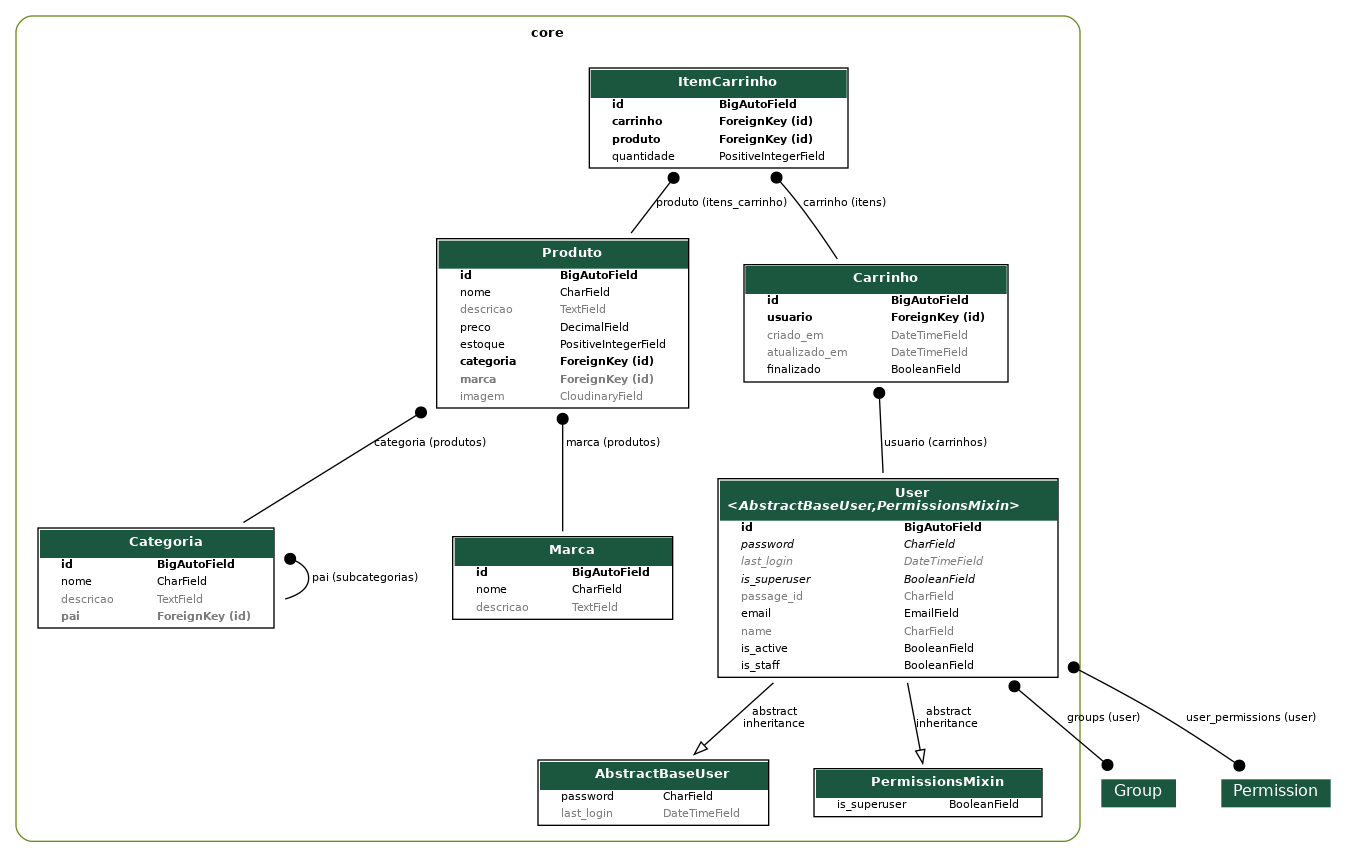
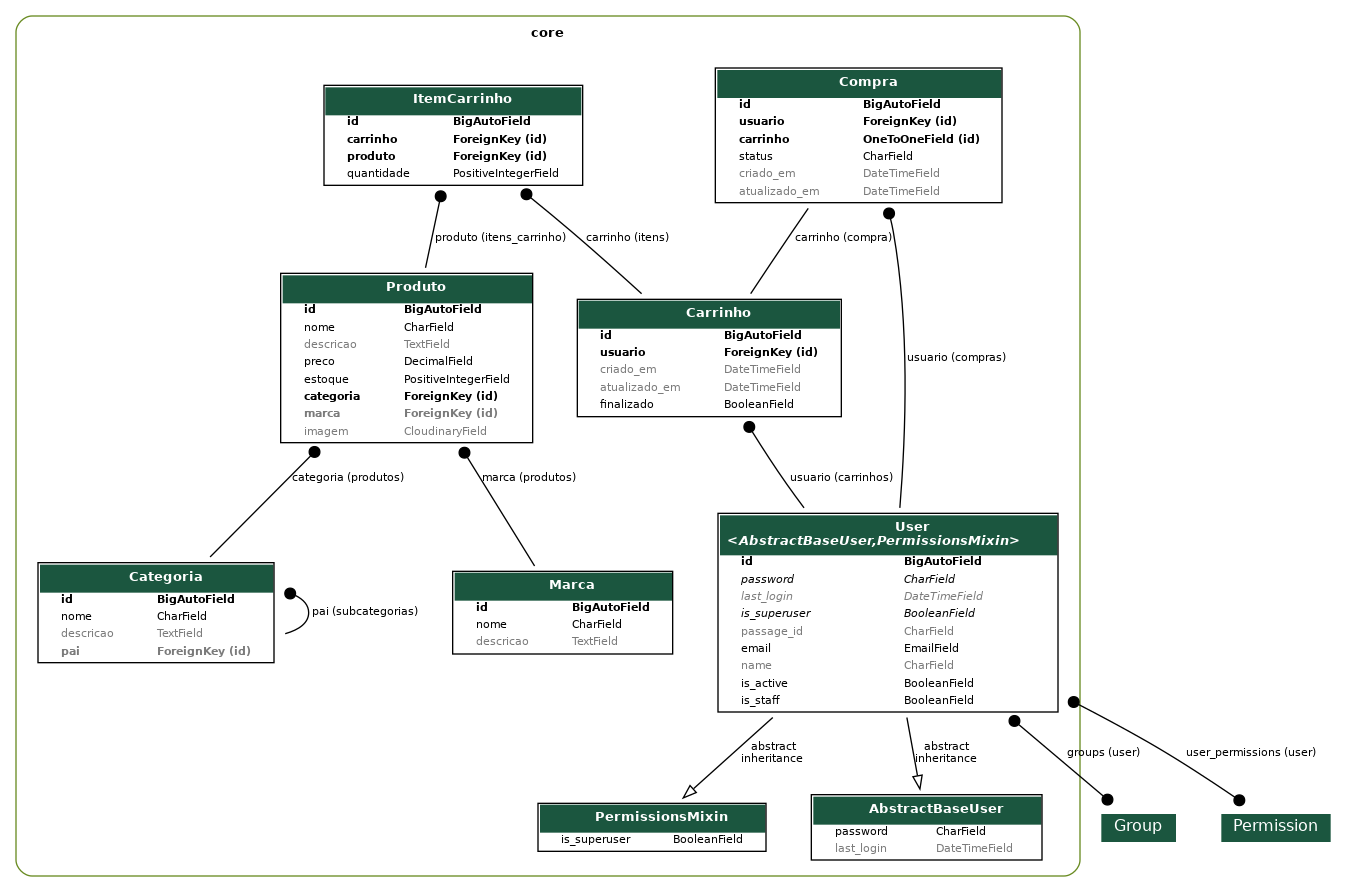
feat: criação da Model Compra.py

diff --git a/core/migrations/0002_compra.py b/core/migrations/0002_compra.py
@@ -1,0 +1,31 @@
+# Generated by Django 5.2.3 on 2025-10-21 19:08
+
+import django.db.models.deletion
+from django.conf import settings
+from django.db import migrations, models
+
+
+class Migration(migrations.Migration):
+
+    dependencies = [
+        ('core', '0001_initial'),
+    ]
+
+    operations = [
+        migrations.CreateModel(
+            name='Compra',
+            fields=[
+                ('id', models.BigAutoField(auto_created=True, primary_key=True, serialize=False, verbose_name='ID')),
+                ('status', models.CharField(choices=[('CARRINHO', 'Carrinho'), ('REALIZADO', 'Realizado'), ('PAGO', 'Pago'), ('ENTREGUE', 'Entregue')], default='CARRINHO', max_length=20)),
+                ('criado_em', models.DateTimeField(auto_now_add=True)),
+                ('atualizado_em', models.DateTimeField(auto_now=True)),
+                ('carrinho', models.OneToOneField(on_delete=django.db.models.deletion.CASCADE, related_name='compra', to='core.carrinho')),
+                ('usuario', models.ForeignKey(on_delete=django.db.models.deletion.PROTECT, related_name='compras', to=settings.AUTH_USER_MODEL)),
+            ],
+            options={
+                'verbose_name': 'Compra',
+                'verbose_name_plural': 'Compras',
+                'ordering': ['-criado_em'],
+            },
+        ),
+    ]

diff --git a/core/models/compra.py b/core/models/compra.py
@@ -1,0 +1,39 @@
+from django.db import models
+from django.conf import settings
+from core.models.carrinho import Carrinho
+
+class Compra(models.Model):
+    class StatusCompra(models.TextChoices):
+        CARRINHO = 'CARRINHO', 'Carrinho'
+        REALIZADO = 'REALIZADO', 'Realizado'
+        PAGO = 'PAGO', 'Pago'
+        ENTREGUE = 'ENTREGUE', 'Entregue'
+
+    usuario = models.ForeignKey(
+        settings.AUTH_USER_MODEL,
+        on_delete=models.PROTECT,
+        related_name='compras'
+    )
+
+    carrinho = models.OneToOneField(
+        Carrinho,
+        on_delete=models.CASCADE,
+        related_name='compra'
+    )
+
+    status = models.CharField(
+        max_length=20,
+        choices=StatusCompra.choices,
+        default=StatusCompra.CARRINHO
+    )
+
+    criado_em = models.DateTimeField(auto_now_add=True)
+    atualizado_em = models.DateTimeField(auto_now=True)
+
+    def __str__(self):
+        return f'Compra #{self.id} - Usuário: {self.usuario} - {self.status}'
+    
+    class Meta:
+        verbose_name = 'Compra'
+        verbose_name_plural = 'Compras'
+        ordering = ['-criado_em']

diff --git a/core/models/__init__.py b/core/models/__init__.py
@@ -1,6 +1,7 @@
 from .user import User
 from .categoria import Categoria
 from .produto import Produto
+from .compra import Compra
 from .carrinho import Carrinho
 from .item_carrinho import ItemCarrinho
 from .marca import Marca
